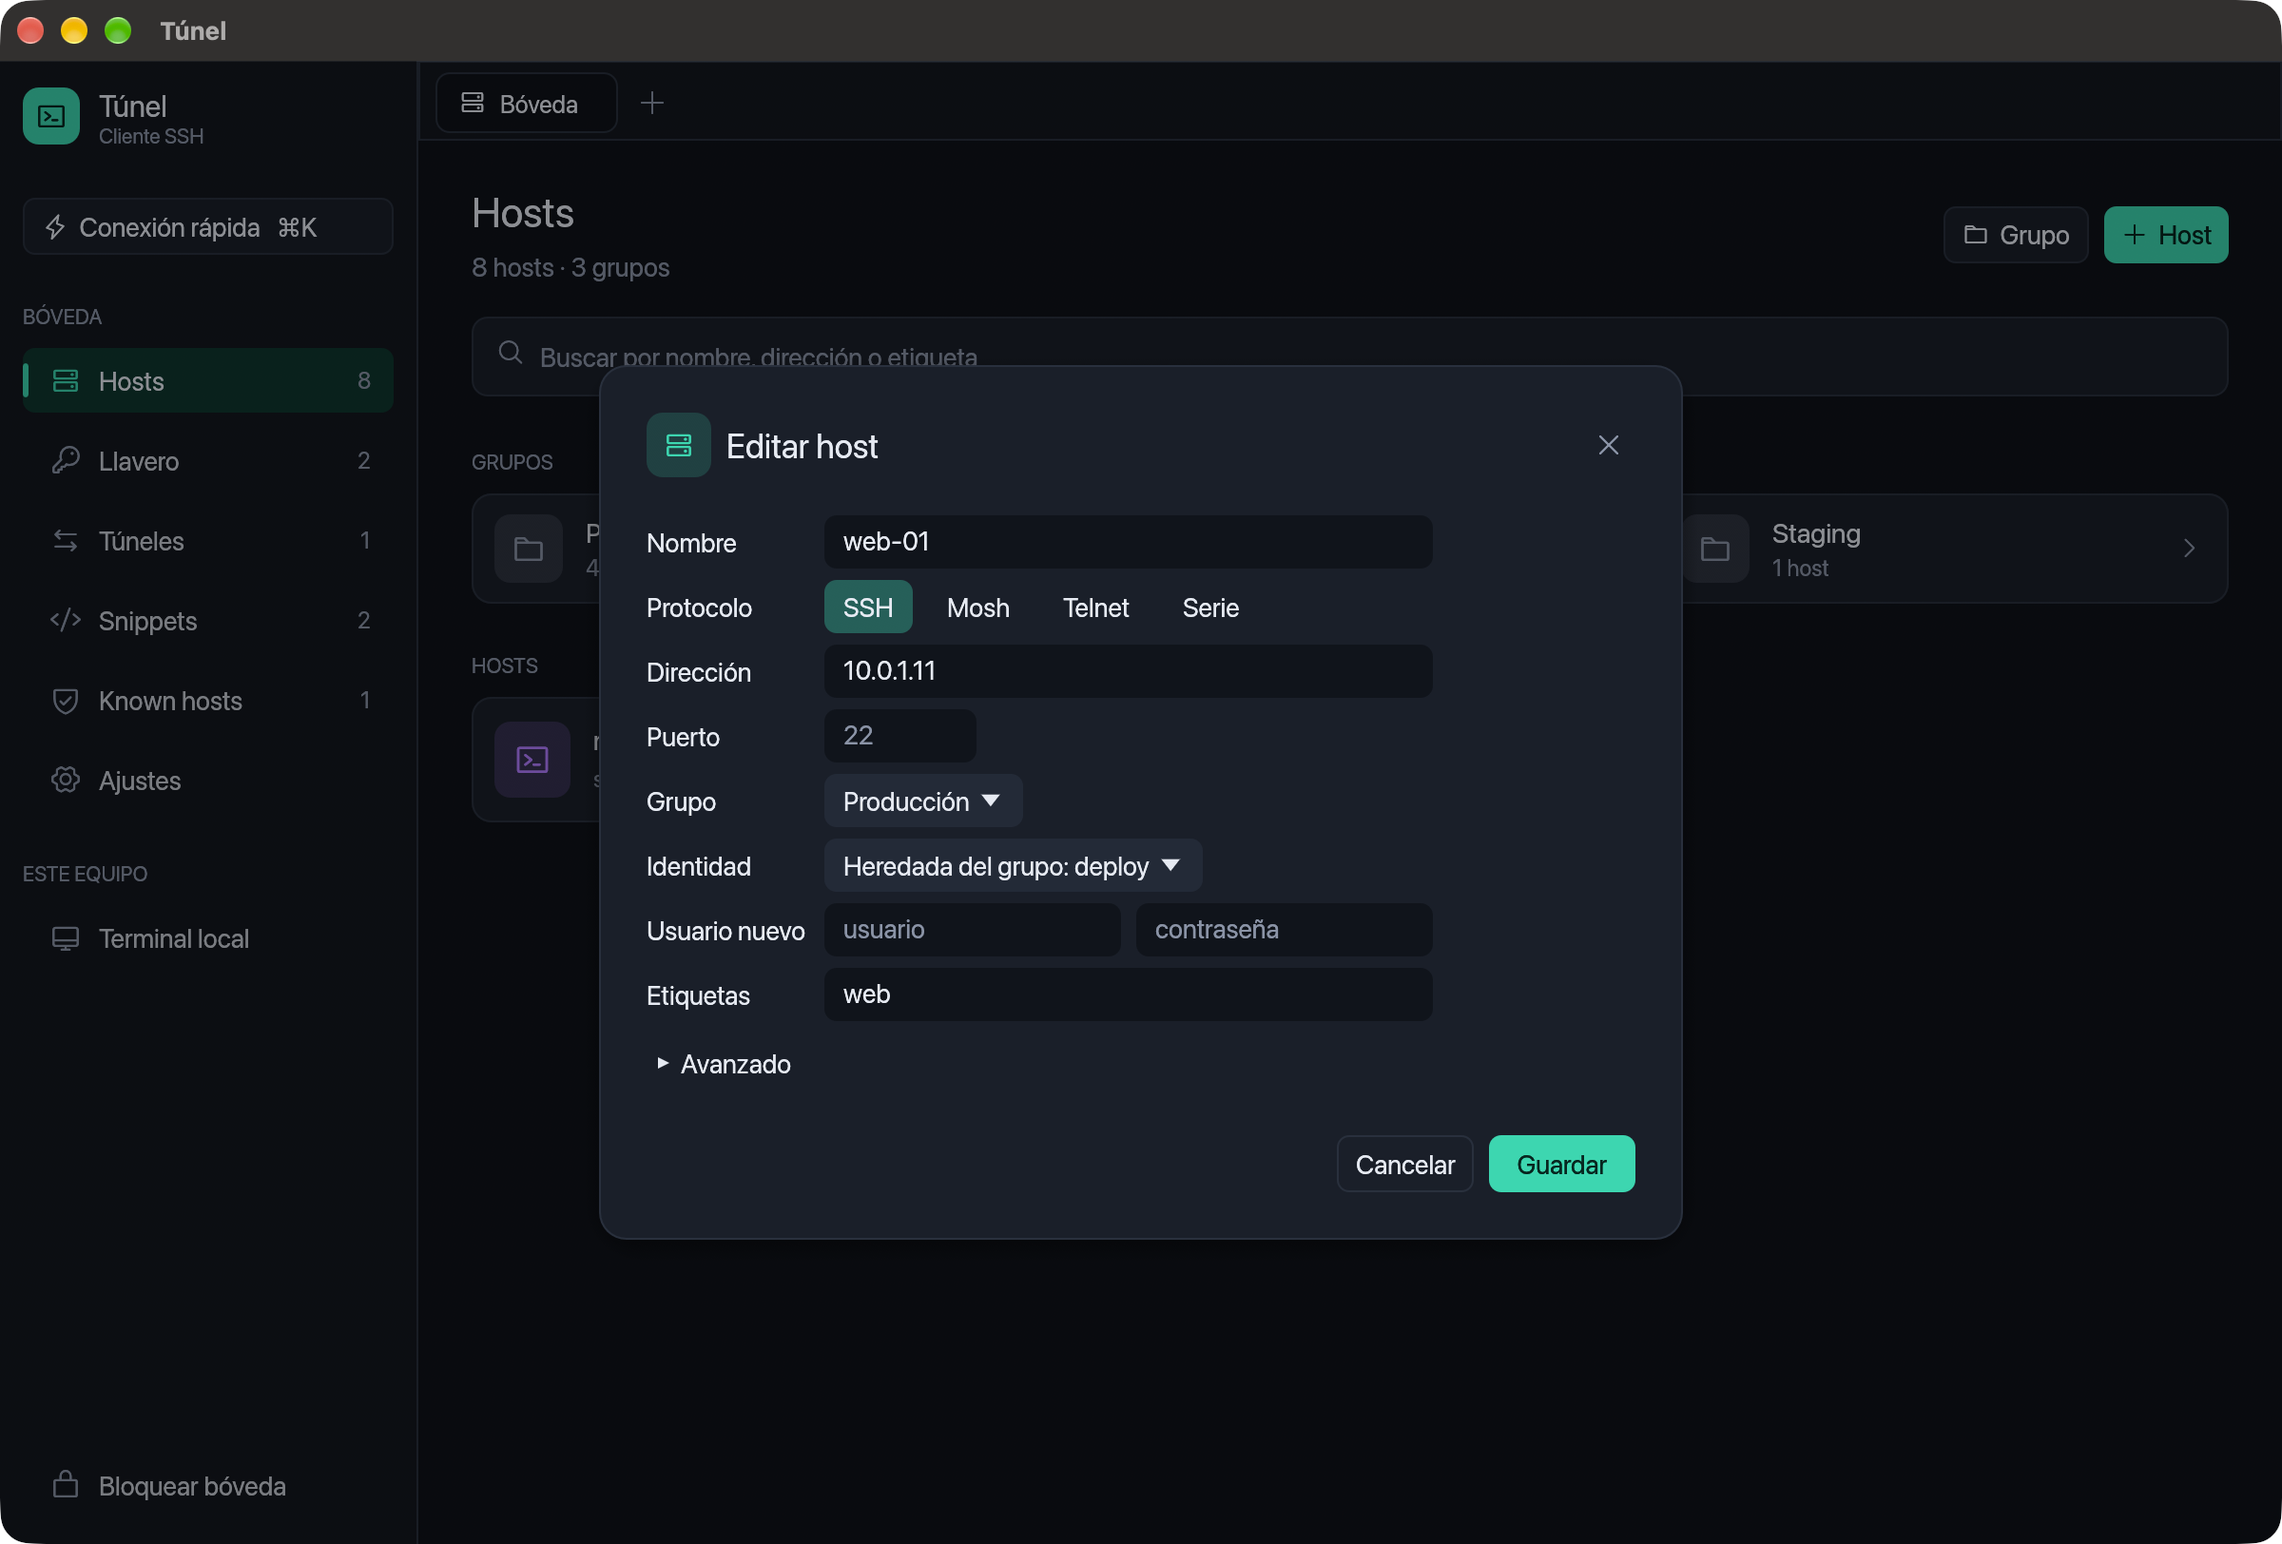
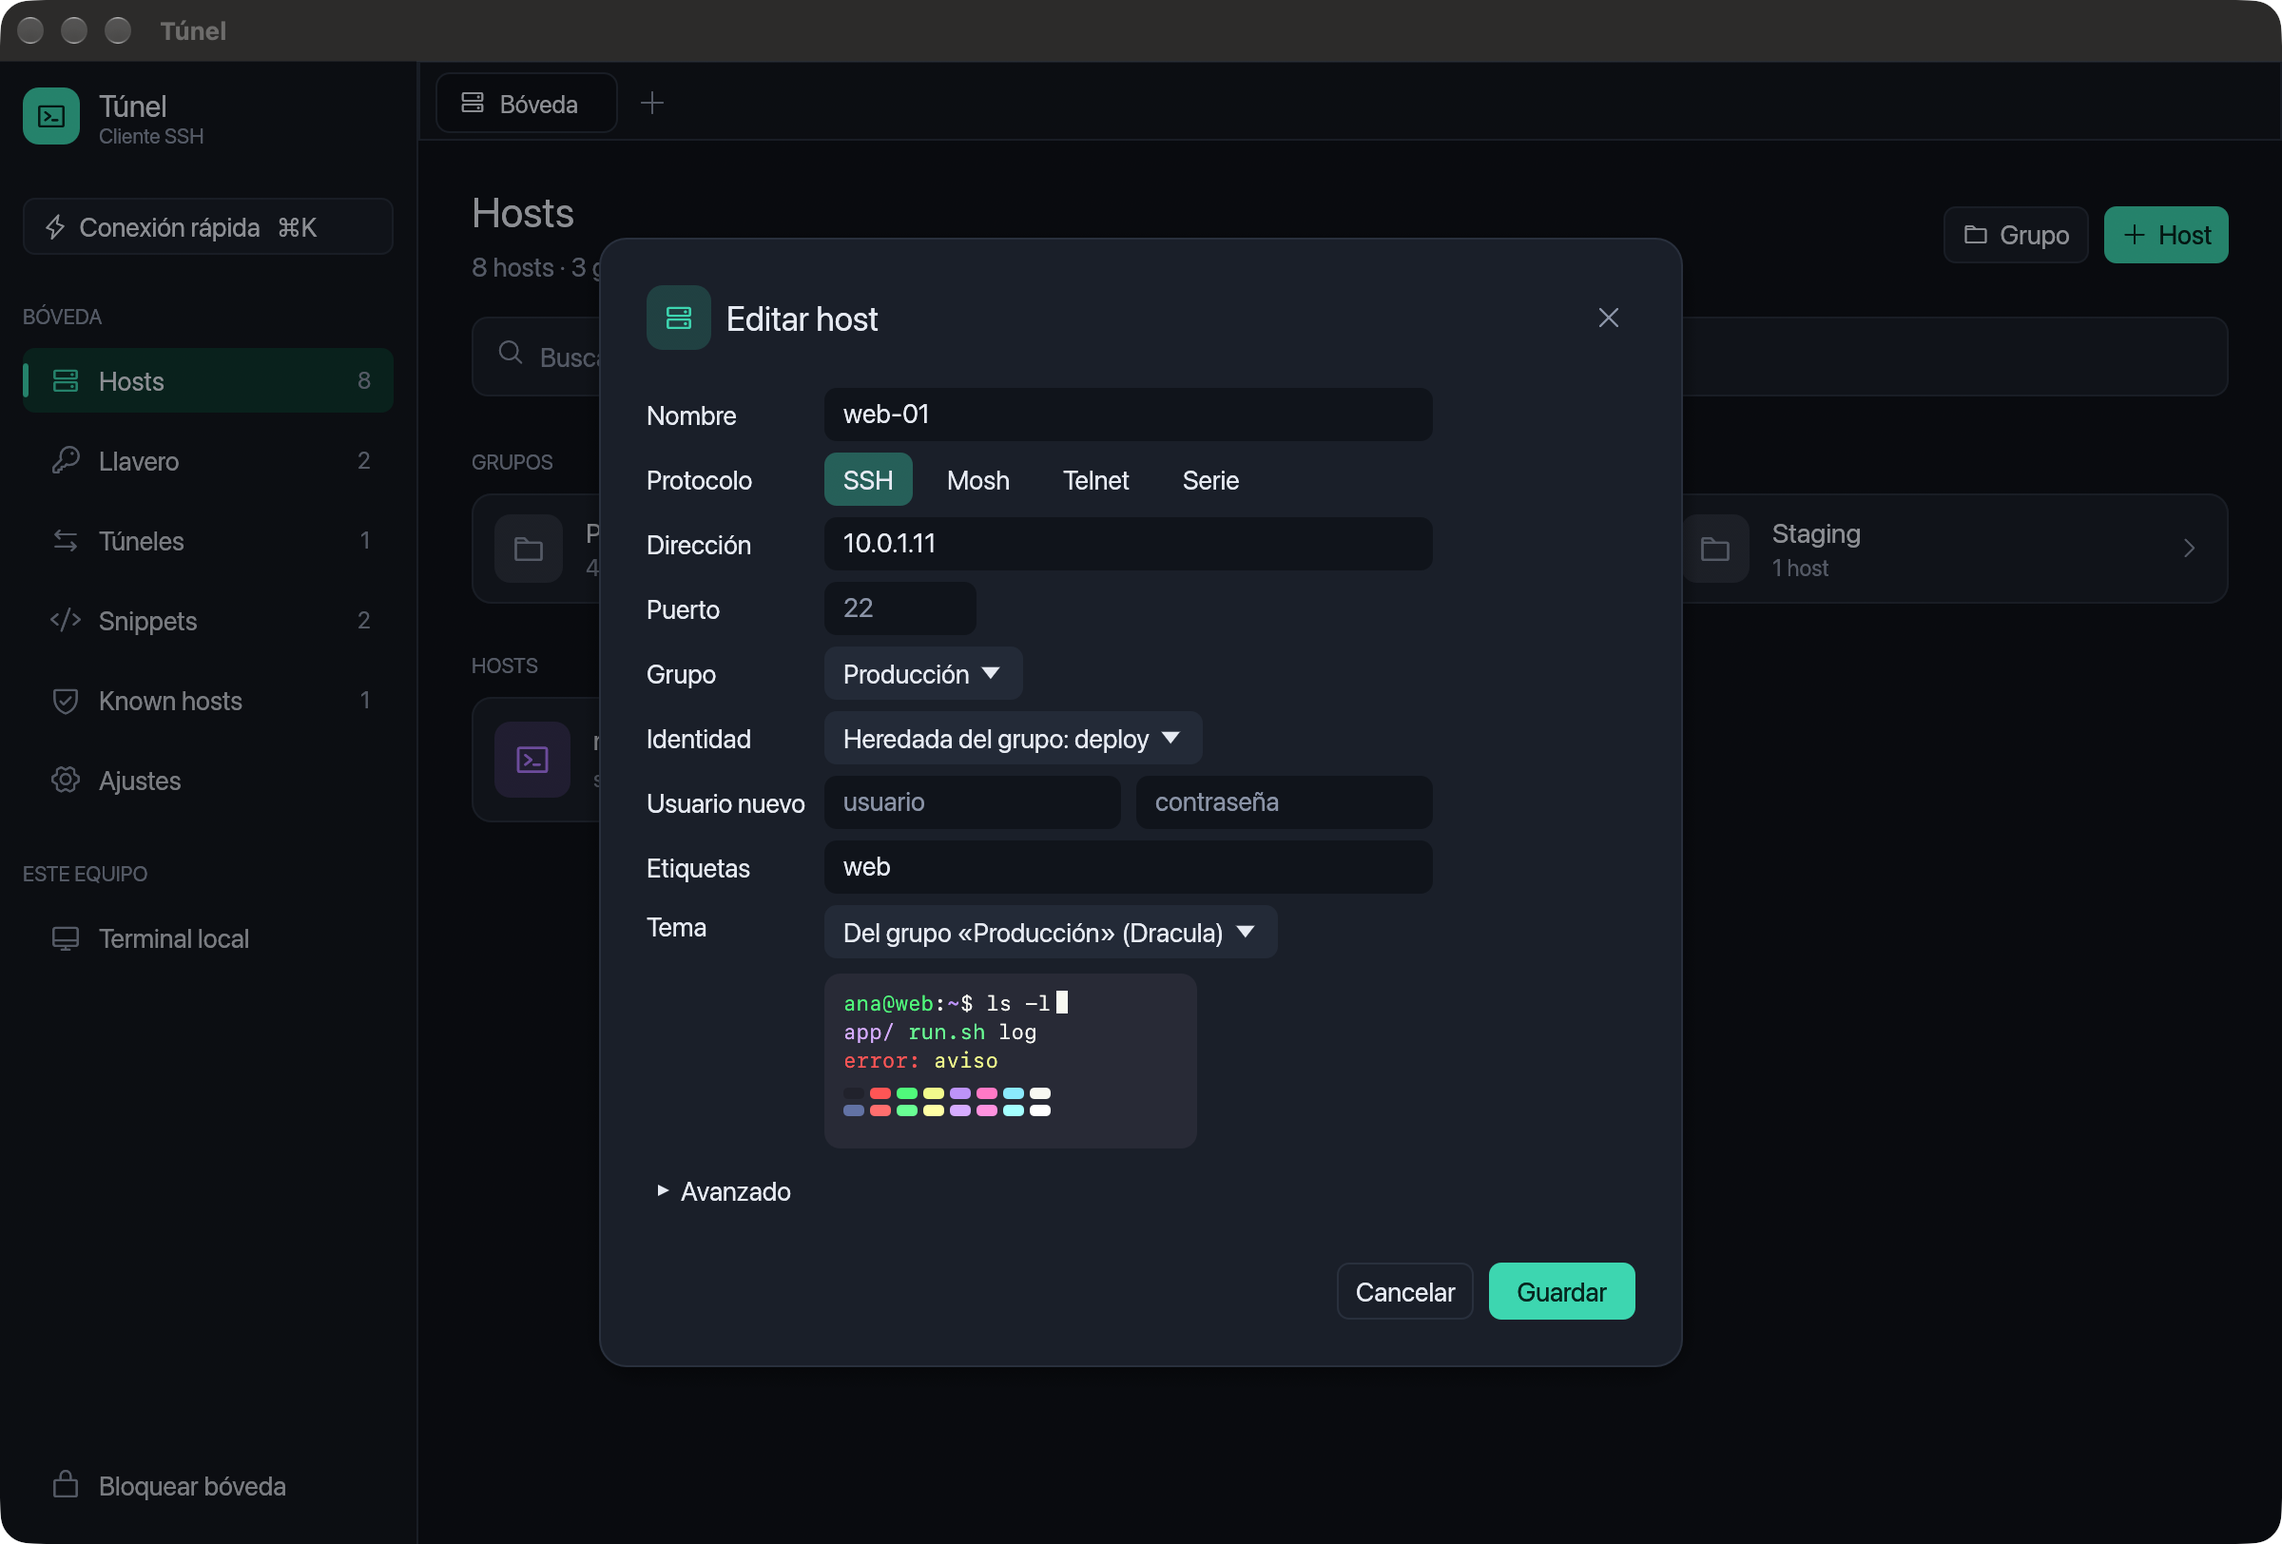
feat: tema de la terminal por grupo y selector visible con vista previa
- Los grupos pueden definir un tema; sus hosts lo heredan si no tienen uno propio
  (host, luego grupos hasta la raíz y por último el tema general).
- El selector de tema sale de «Avanzado» al formulario del host y aparece también en el
  del grupo, con la vista previa del tema que se usará y de dónde se hereda.
- El ejemplo de bóveda da al grupo Producción el tema Dracula.

diff --git a/crates/tunel-core/src/vault.rs b/crates/tunel-core/src/vault.rs
@@ -270,6 +270,24 @@ impl VaultData {
         .collect()
     }
 
+    /// Primer tema definido subiendo desde `group`, con el grupo que lo define.
+    pub fn inherited_terminal_theme(&self, group: Option<GroupId>) -> Option<(&Group, &str)> {
+        self.group_chain(group)
+            .into_iter()
+            .find_map(|g| g.terminal_theme.as_deref().map(|theme| (g, theme)))
+    }
+
+    /// Id del tema de la terminal de un host: el suyo, el heredado de su grupo o el general.
+    pub fn terminal_theme_id(&self, id: HostId) -> &str {
+        let host = self.host(id);
+        host.and_then(|h| h.terminal_theme.as_deref())
+            .or_else(|| {
+                let group = host.and_then(|h| h.group);
+                self.inherited_terminal_theme(group).map(|(_, theme)| theme)
+            })
+            .unwrap_or(&self.settings.theme)
+    }
+
     pub fn resolve(&self, id: HostId) -> Result<ResolvedHost, ResolveError> {
         let host = self.host(id).ok_or(ResolveError::HostNotFound)?;
         let chain = self.group_chain(host.group);
@@ -432,6 +450,75 @@ mod tests {
         let resolved = vault.resolve(host).unwrap();
         assert_eq!(resolved.port, 2200);
         assert_eq!(resolved.identity.unwrap().id, identity);
+    }
+
+    fn with_group_theme(vault: VaultData, group: GroupId, theme: Option<&str>) -> VaultData {
+        let updated = Group {
+            terminal_theme: theme.map(String::from),
+            ..vault.group(group).unwrap().clone()
+        };
+        vault.with_group(updated)
+    }
+
+    fn with_host_theme(vault: VaultData, host: HostId, theme: Option<&str>) -> VaultData {
+        let updated = Host {
+            terminal_theme: theme.map(String::from),
+            ..vault.host(host).unwrap().clone()
+        };
+        vault.with_host(updated)
+    }
+
+    #[test]
+    fn terminal_theme_defaults_to_general_setting() {
+        let (vault, host, _, _) = sample();
+        assert_eq!(vault.terminal_theme_id(host), vault.settings.theme);
+        assert_eq!(
+            vault.inherited_terminal_theme(vault.host(host).unwrap().group),
+            None
+        );
+    }
+
+    #[test]
+    fn terminal_theme_is_inherited_from_group_chain() {
+        let (vault, host, group, _) = sample();
+        let child = Group {
+            parent: Some(group),
+            ..Group::new("Web")
+        };
+        let moved = Host {
+            group: Some(child.id),
+            ..vault.host(host).unwrap().clone()
+        };
+        let child_id = child.id;
+        let vault = with_group_theme(
+            vault.with_group(child).with_host(moved),
+            group,
+            Some("nord"),
+        );
+        assert_eq!(vault.terminal_theme_id(host), "nord");
+        let (source, theme) = vault.inherited_terminal_theme(Some(child_id)).unwrap();
+        assert_eq!((source.name.as_str(), theme), ("Producción", "nord"));
+    }
+
+    #[test]
+    fn host_theme_overrides_group_theme() {
+        let (vault, host, group, _) = sample();
+        let vault = with_group_theme(vault, group, Some("nord"));
+        let vault = with_host_theme(vault, host, Some("dracula"));
+        assert_eq!(vault.terminal_theme_id(host), "dracula");
+    }
+
+    #[test]
+    fn terminal_theme_of_unknown_host_is_general_setting() {
+        let vault = VaultData::default();
+        assert_eq!(vault.terminal_theme_id(HostId::new()), vault.settings.theme);
+    }
+
+    #[test]
+    fn group_without_theme_field_still_deserializes() {
+        let json = r#"{"id":"00000000-0000-0000-0000-000000000001","name":"G","parent":null,"identity":null,"port":null}"#;
+        let group: Group = serde_json::from_str(json).unwrap();
+        assert_eq!(group.terminal_theme, None);
     }
 
     #[test]

diff --git a/crates/tunel-app/src/editor/host.rs b/crates/tunel-app/src/editor/host.rs
@@ -1,6 +1,7 @@
 //! Formulario de host y validación de sus campos.
 
 use super::combo;
+use crate::views::themes::{InheritedTheme, theme_picker};
 use std::collections::BTreeMap;
 use tunel_core::*;
 
@@ -253,28 +254,18 @@ impl HostForm {
     }
 }
 
-const GENERAL_THEME: &str = "Usar el tema general";
-
-/// Tema propio del host; `None` usa el de ajustes.
-fn theme_selector(ui: &mut egui::Ui, value: &mut Option<String>, data: &VaultData) {
-    let custom = &data.settings.custom_themes;
-    let selected = value
-        .as_deref()
-        .map(|id| tunel_term::palette::find(id, custom).name.clone())
-        .unwrap_or_else(|| GENERAL_THEME.into());
-    ui.horizontal(|ui| {
-        ui.label("Tema de la terminal");
-        egui::ComboBox::from_id_salt("tema-host")
-            .selected_text(selected)
-            .width(220.0)
-            .show_ui(ui, |ui| {
-                ui.selectable_value(value, None, GENERAL_THEME);
-                ui.separator();
-                for theme in custom.iter().chain(tunel_term::palette::builtin()) {
-                    ui.selectable_value(value, Some(theme.id.clone()), &theme.name);
-                }
-            });
-    });
+/// Tema que usaría un host o grupo colgado de `group` si no define uno propio.
+pub(super) fn inherited_theme(data: &VaultData, group: Option<GroupId>) -> InheritedTheme<'_> {
+    match data.inherited_terminal_theme(group) {
+        Some((source, theme_id)) => InheritedTheme {
+            group: Some(&source.name),
+            theme_id,
+        },
+        None => InheritedTheme {
+            group: None,
+            theme_id: &data.settings.theme,
+        },
+    }
 }
 
 pub(super) fn host_form(ui: &mut egui::Ui, form: &mut HostForm, data: &VaultData) {
@@ -380,6 +371,20 @@ pub(super) fn host_form(ui: &mut egui::Ui, form: &mut HostForm, data: &VaultData
                     .desired_width(FIELD_WIDTH),
             );
             ui.end_row();
+            // Arriba, alineada con el desplegable y no con el centro de la vista previa.
+            ui.with_layout(egui::Layout::top_down(egui::Align::Min), |ui| {
+                ui.add_space(3.0);
+                ui.label("Tema");
+            });
+            let inherited = inherited_theme(data, form.host.group);
+            theme_picker(
+                ui,
+                "tema-host",
+                &mut form.host.terminal_theme,
+                &inherited,
+                &data.settings.custom_themes,
+            );
+            ui.end_row();
         });
 
     ui.collapsing("Avanzado", |ui| {
@@ -387,7 +392,6 @@ pub(super) fn host_form(ui: &mut egui::Ui, form: &mut HostForm, data: &VaultData
             crate::ui::toggle(ui, &mut form.host.agent_forwarding);
             ui.label("Reenvío del agente SSH");
         });
-        theme_selector(ui, &mut form.host.terminal_theme, data);
         ui.label("Saltar a través de (jump hosts, en orden):");
         for other in data.hosts.iter().filter(|h| h.id != form.host.id) {
             let mut on = form.host.jump_hosts.contains(&other.id);

diff --git a/crates/tunel-app/src/views/themes.rs b/crates/tunel-app/src/views/themes.rs
@@ -57,6 +57,51 @@ fn paint_preview(painter: &egui::Painter, rect: Rect, theme: &Theme) {
     }
 }
 
+/// Tema que usa un host o un grupo cuando no define uno propio.
+pub struct InheritedTheme<'a> {
+    /// Grupo del que se hereda; `None` es el tema general de ajustes.
+    pub group: Option<&'a str>,
+    pub theme_id: &'a str,
+}
+
+/// Selector de tema de un host o un grupo, con la vista previa del tema que se usará.
+pub fn theme_picker(
+    ui: &mut egui::Ui,
+    id_salt: &str,
+    value: &mut Option<String>,
+    inherited: &InheritedTheme,
+    custom: &[Theme],
+) {
+    let inherited_theme = palette::find(inherited.theme_id, custom);
+    let inherit_label = match inherited.group {
+        Some(group) => format!("Del grupo «{group}» ({})", inherited_theme.name),
+        None => format!("El general ({})", inherited_theme.name),
+    };
+    let effective = value
+        .as_deref()
+        .map_or(inherited_theme, |id| palette::find(id, custom));
+    let selected = if value.is_some() {
+        effective.name.clone()
+    } else {
+        inherit_label.clone()
+    };
+    ui.vertical(|ui| {
+        egui::ComboBox::from_id_salt(id_salt)
+            .selected_text(selected)
+            .width(CARD_WIDTH)
+            .show_ui(ui, |ui| {
+                ui.selectable_value(value, None, inherit_label);
+                ui.separator();
+                for theme in custom.iter().chain(palette::builtin()) {
+                    ui.selectable_value(value, Some(theme.id.clone()), &theme.name);
+                }
+            });
+        let size = Vec2::new(CARD_WIDTH, PREVIEW_HEIGHT);
+        let (rect, _) = ui.allocate_exact_size(size, Sense::hover());
+        paint_preview(ui.painter(), rect, effective);
+    });
+}
+
 /// Tarjeta seleccionable de un tema. Devuelve (seleccionar, eliminar).
 fn theme_card(ui: &mut egui::Ui, theme: &Theme, selected: bool) -> (bool, bool) {
     let p = ui::pal(ui);

diff --git a/crates/tunel-app/src/editor/mod.rs b/crates/tunel-app/src/editor/mod.rs
@@ -3,7 +3,7 @@
 mod host;
 
 use crate::app::TunelApp;
-use host::{HostForm, host_form, parse_port};
+use host::{HostForm, host_form, inherited_theme, parse_port};
 use tunel_core::*;
 
 const MODAL_WIDTH: f32 = 520.0;
@@ -209,6 +209,15 @@ pub fn show(app: &mut TunelApp, ctx: &egui::Context) {
                             .map(|g| (g.id, g.name.clone()))
                             .collect();
                         combo(ui, "grupo-padre", &mut group.parent, &parents, "(raíz)");
+                        ui.label("Tema de la terminal para sus hosts");
+                        let inherited = inherited_theme(&data, group.parent);
+                        crate::views::themes::theme_picker(
+                            ui,
+                            "tema-grupo",
+                            &mut group.terminal_theme,
+                            &inherited,
+                            &data.settings.custom_themes,
+                        );
                     }
                     Editor::Identity(identity) => identity_form(ui, identity, &data),
                     Editor::Key(key) => key_form(ui, key),

diff --git a/crates/tunel-app/src/app.rs b/crates/tunel-app/src/app.rs
@@ -249,16 +249,13 @@ impl TunelApp {
         self.vault.as_ref().map(|v| &v.data)
     }
 
-    /// Tema de terminal de un host: el suyo propio o, si no tiene, el general de ajustes.
+    /// Tema de terminal de un host: el suyo, el heredado de su grupo o el general de ajustes.
     pub fn terminal_theme(&self, host: Option<HostId>) -> Theme {
         let Some(data) = self.data() else {
             return palette::default_theme().clone();
         };
-        let id = host
-            .and_then(|h| data.host(h))
-            .and_then(|h| h.terminal_theme.clone())
-            .unwrap_or_else(|| data.settings.theme.clone());
-        palette::find(&id, &data.settings.custom_themes).clone()
+        let id = host.map_or(data.settings.theme.as_str(), |h| data.terminal_theme_id(h));
+        palette::find(id, &data.settings.custom_themes).clone()
     }
 
     /// Aplica a la interfaz la paleta del modo elegido (o la que pide el tema de la terminal).

diff --git a/crates/tunel-core/src/model.rs b/crates/tunel-core/src/model.rs
@@ -145,6 +145,9 @@ pub struct Group {
     pub parent: Option<GroupId>,
     pub identity: Option<IdentityId>,
     pub port: Option<u16>,
+    /// Tema de la terminal para los hosts del grupo que no tengan uno propio.
+    #[serde(default)]
+    pub terminal_theme: Option<String>,
 }
 
 impl Group {

diff --git a/crates/tunel-core/examples/demo_vault.rs b/crates/tunel-core/examples/demo_vault.rs
@@ -19,6 +19,7 @@ fn main() -> Result<(), Box<dyn std::error::Error>> {
     let root = Identity::new("root", "root");
     let prod = Group {
         identity: Some(deploy.id),
+        terminal_theme: Some("dracula".into()),
         ..Group::new("Producción")
     };
     let staging = Group {

diff --git a/README.md b/README.md
@@ -49,7 +49,8 @@ desde una sola aplicación nativa, sin Electron ni WebView.
 - **13 temas incluidos**: Túnel Oscuro y Claro, Dracula, Nord, Tokyo Night, Catppuccin
   Mocha y Latte, One Dark, Gruvbox, Solarized Oscuro y Claro, Monokai y GitHub Claro.
 - **Importa temas** de iTerm2 (`.itermcolors`) y Windows Terminal (`.json`).
-- **Tema por host**, por ejemplo uno rojo para producción.
+- **Tema por host o por grupo**, por ejemplo uno distinto para producción. Los hosts sin tema
+  propio usan el de su grupo y, si tampoco lo tiene, el general.
 - Cursor en bloque, barra o subrayado. Los programas como vim pueden cambiarlo mientras se ejecutan.
 
 ![Terminal con el tema Túnel Oscuro](docs/screenshots/terminal.png)
